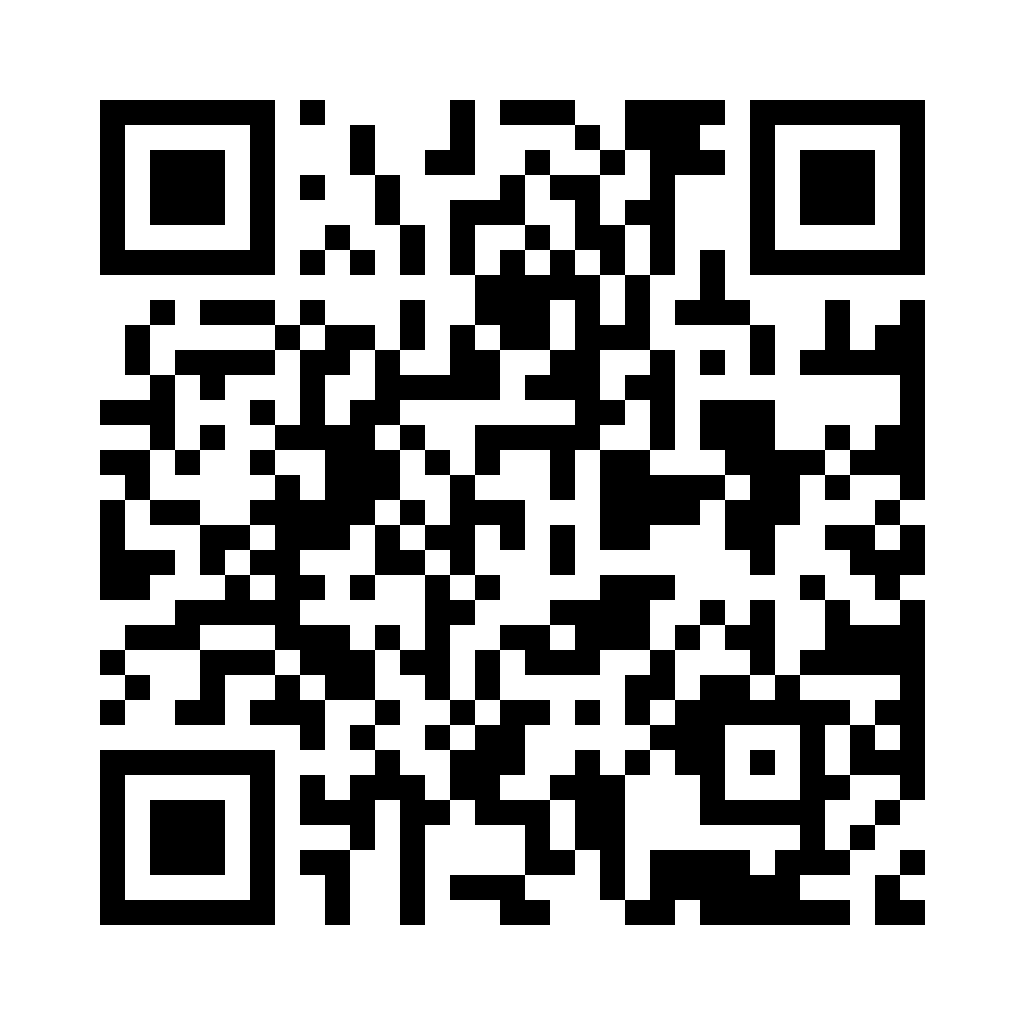
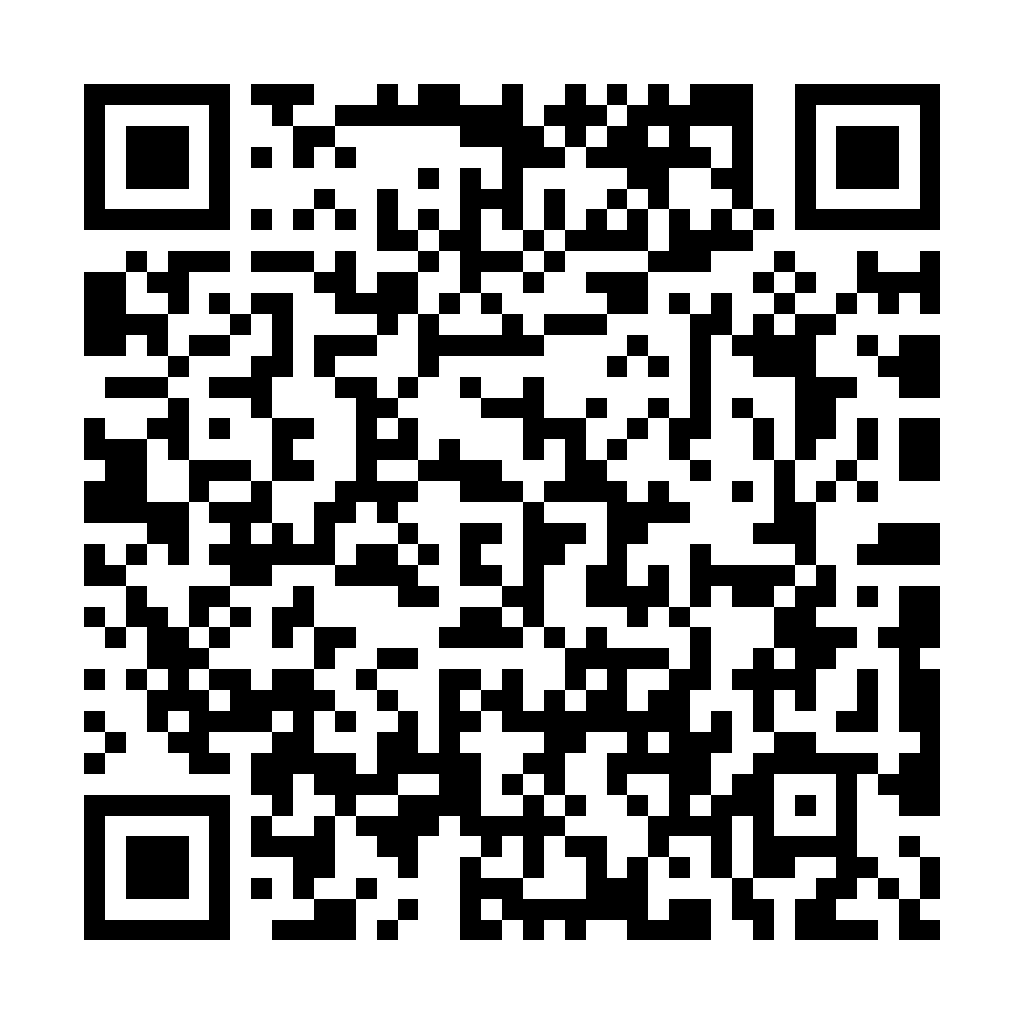
Fix affiliate QR code pointing to a nonexistent Firebase Hosting site
The QR code (printed for today's affiliate training) encoded
https://sipai-legal.web.app/qa/ -- "sipai-legal" is the GitHub repo
name, not a real Firebase Hosting site (no such site is configured in
sipai-legal's firebase.json/.firebaserc), and there was never a /qa/
route in the real React app. The 2026-09-13 "verified working" check
only confirmed the QR image decodes back to that same string; it never
made an HTTP request, so it couldn't have caught a URL that doesn't
resolve to anything.

Regenerated the QR to encode the real, live route instead:
https://solar-install-pinoy.web.app/affiliate-program (sipai-legal's
actual AffiliateSignup.jsx, routed in src/App.jsx, served by the real
solar-install-pinoy Firebase project). Re-verified by decoding the new
PNG and the HTML-embedded copy. Updated MEMORY.md and
SIP-AFFILIATE-DEPLOYMENT.md to correct the record rather than leave the
old status looking current.

Any already-printed copies of the old QR code still need trainees told
the correct link directly -- this fix doesn't reach paper already
handed out.

Claude-Session: https://claude.ai/code/session_01Udgh2TthimAtGxXogVXVTw

diff --git a/.claude/adam/affiliate-invitation.html b/.claude/adam/affiliate-invitation.html
@@ -99,9 +99,9 @@
 
         <div class="card">
             <div class="qr-container">
[2 lines of base64/hex data omitted]
                 <p class="qr-description">Scan to sign up as a Solar Install Pinoy affiliate</p>
[2 lines of base64/hex data omitted]
             </div>
         </div>
 
@@ -122,7 +122,7 @@
             <div class="link-section">
                 <h3>Or use this link:</h3>
                 <div class="link-input-wrapper">
-                    <input type="text" id="affiliateLink" class="link-input" readonly value="https://sipai-legal.web.app/qa/">
+                    <input type="text" id="affiliateLink" class="link-input" readonly value="https://solar-install-pinoy.web.app/affiliate-program">
                     <button class="button" onclick="copyToClipboard()" title="Copy to clipboard">Copy</button>
                 </div>
             </div>

diff --git a/.claude/adam/make-qr.js b/.claude/adam/make-qr.js
@@ -3,7 +3,18 @@ const jsQR = require('jsqr');
 const { PNG } = require('pngjs');
 const fs = require('fs');
 
-const URL = 'https://sipai-legal.web.app/qa/';
+// FIX (2026-09-17): was 'https://sipai-legal.web.app/qa/' -- 'sipai-legal'
+// is the GitHub repo name, not a real Firebase Hosting site. No such site
+// exists in this project's firebase.json/.firebaserc (no multi-site
+// config anywhere), and there is no '/qa/' route in sipai-legal's actual
+// React app (src/App.jsx only defines '/affiliate-program' and
+// '/assessor'). The only real, confirmed-live Firebase project is
+// solar-install-pinoy (STATUS_AND_BLOCKERS.md, deploy.yml's PROJECT_ID),
+// and the only real affiliate-signup route is /affiliate-program.
+// The decode check below only ever verified the QR encodes this exact
+// string -- it has never made an HTTP request, so it could not have
+// caught this: a URL that doesn't resolve to anything decodes back fine.
+const URL = 'https://solar-install-pinoy.web.app/affiliate-program';
 const OUT = process.argv[2];
 
 (async () => {

diff --git a/.claude/adam/MEMORY.md b/.claude/adam/MEMORY.md
@@ -134,9 +134,21 @@
 
 ### ✅ SIP Affiliate Invitation System
 - **Issue:** QR code pointing to broken URL with `~~` placeholder
-- **Fix:** Generated correct QR code pointing to `https://sipai-legal.web.app/qa/`
-- **Status:** ✅ DEPLOYED & WORKING
-- **Date:** 2026-09-13
+- **Fix (2026-09-13, itself wrong -- superseded 2026-09-17):** Generated a QR
+  code pointing to `https://sipai-legal.web.app/qa/` and marked it "verified"
+  because `jsqr` decoded the image back to that same string. That check
+  never made an HTTP request -- `sipai-legal` is the GitHub repo name, not
+  a real Firebase Hosting site, and there was no `/qa/` route anywhere.
+  This shipped live and was printed for the 2026-09-17 training before
+  being caught.
+- **Real fix (2026-09-17):** QR now points to
+  `https://solar-install-pinoy.web.app/affiliate-program` -- the actual
+  live route (`sipai-legal` repo's `src/App.jsx` + `AffiliateSignup.jsx`,
+  served by the real `solar-install-pinoy` Firebase project). Re-verified
+  by decoding the regenerated PNG. If any printed copies of the old QR
+  are already with trainees, tell them the correct link directly.
+- **Status:** ✅ Fixed 2026-09-17 -- see `.claude/adam/SIP-AFFILIATE-DEPLOYMENT.md`
+  for the full correction before trusting the 2026-09-13 status below.
 - **QR Code:** `public/sip-affiliate-signup-qr.png` (decoded back with `jsqr` and verified)
 - **Full details:** `.claude/adam/SIP-AFFILIATE-DEPLOYMENT.md` (single source of truth for this)
 - **Decision:** `solarinstallpinoy.com` is not registered and there's no plan
@@ -154,11 +166,20 @@
 ## 🚀 Deployment Log
 
 ### 2026-09-13 - SIP Affiliate QR Code
-- **Status:** ✅ LIVE
-- **URL:** https://sipai-legal.web.app/qa/
-- **QR Code:** Generated and verified working
-- **Trainees:** Can scan QR code to access affiliate signup
-- **Distribution:** Ready for print/digital sharing
+- **Status:** ⚠ Was live at a URL that does not resolve -- see 2026-09-17 entry below.
+- **URL:** ~~https://sipai-legal.web.app/qa/~~ (never a real Firebase Hosting site)
+- **QR Code:** Generated; the "verified" check only confirmed the image decodes
+  back to that string, never that the URL resolves to anything.
+- **Trainees:** Could NOT actually reach a real page by scanning this.
+- **Distribution:** Was printed/distributed before the error was caught.
+
+### 2026-09-17 - SIP Affiliate QR Code (correction)
+- **Status:** ✅ LIVE, real URL
+- **URL:** https://solar-install-pinoy.web.app/affiliate-program
+- **QR Code:** Regenerated, decoded back and confirmed matches this URL exactly.
+- **Trainees:** Can now actually reach the real affiliate signup form.
+- **Outstanding:** Any already-printed copies of the 2026-09-13 QR code need
+  the correct link given to trainees directly -- this fix doesn't reach paper.
 
 ### 2026-09-14 - SIP AI: 11 Cloud Functions
 - **Status:** ✅ LIVE (verified in GitHub Actions logs, not just assumed)

diff --git a/.claude/adam/SIP-AFFILIATE-DEPLOYMENT.md b/.claude/adam/SIP-AFFILIATE-DEPLOYMENT.md
@@ -1,15 +1,42 @@
 # SIP Affiliate Program - QR Code & Signup Link
 
-**Status:** Verified working (2026-09-13)
+**Status:** Fixed 2026-09-17 -- the 2026-09-13 version pointed at a URL that
+does not exist. See "2026-09-17 correction" below before trusting anything
+else in this file's history.
 
 ## The one link that works
 
 ```
-https://sipai-legal.web.app/qa/
+https://solar-install-pinoy.web.app/affiliate-program
 ```
 
-Firebase Hosting project `sipai-legal`. This is the affiliate signup form
-trainees fill in (name, phone, email, Messenger profile, FB group membership).
+This is the real, live affiliate signup form trainees fill in (name, phone,
+email, Messenger profile, FB group membership) -- `src/pages/affiliate/AffiliateSignup.jsx`
+in the `sipai-legal` repo, routed at `/affiliate-program` (`src/App.jsx`),
+served by the `solar-install-pinoy` Firebase project (the only real one --
+confirmed against `firebase.json`, `.github/workflows/deploy.yml`'s
+`PROJECT_ID`, and `docs/STATUS_AND_BLOCKERS.md` in that repo).
+
+### 2026-09-17 correction
+
+The previous version of this file and QR code pointed at
+`https://sipai-legal.web.app/qa/` -- **`sipai-legal` is the GitHub repo
+name, not a real Firebase Hosting site**, and there was never a `/qa/`
+route anywhere in the actual app. This was live and printed for the
+2026-09-17 affiliate training before being caught. Root cause: the
+verification script (`make-qr.js`) only ever confirmed the QR image
+*decodes back to the intended URL string* -- it never made an HTTP
+request, so a URL that doesn't resolve to anything decodes back
+identically to one that does. "Verified working" described the encoding
+pipeline, not the destination. Fixed by pointing at the independently-
+confirmed-live URL above; if outbound HTTP is available when this is
+next touched, actually curl the URL before trusting it again, not just
+decode the QR.
+
+**If any printed/physical copies of the old QR code are already in
+trainees' hands, they need to be told the correct link directly
+(`https://solar-install-pinoy.web.app/affiliate-program`) -- fixing this
+file does not fix paper already handed out.**
 
 `solarinstallpinoy.com` is NOT registered (DNS_PROBE_FINISHED_NXDOMAIN) and
 there's no plan to buy it, so the QR and every link below point straight at
@@ -21,7 +48,10 @@ this project unless that decision changes.
 File: `public/sip-affiliate-signup-qr.png` (1024x1024, error correction H)
 
 Generated with the `qrcode` library and decoded back with `jsqr` to confirm
-it encodes exactly `https://sipai-legal.web.app/qa/`.
+it encodes exactly `https://solar-install-pinoy.web.app/affiliate-program`.
+Decoding only proves the image encodes this string correctly -- it does
+NOT prove the URL resolves to a real page. See the 2026-09-17 correction
+above.
 
 Regenerate/verify (from the repo root; `qrcode`, `jsqr`, `pngjs` are devDependencies):
 ```
